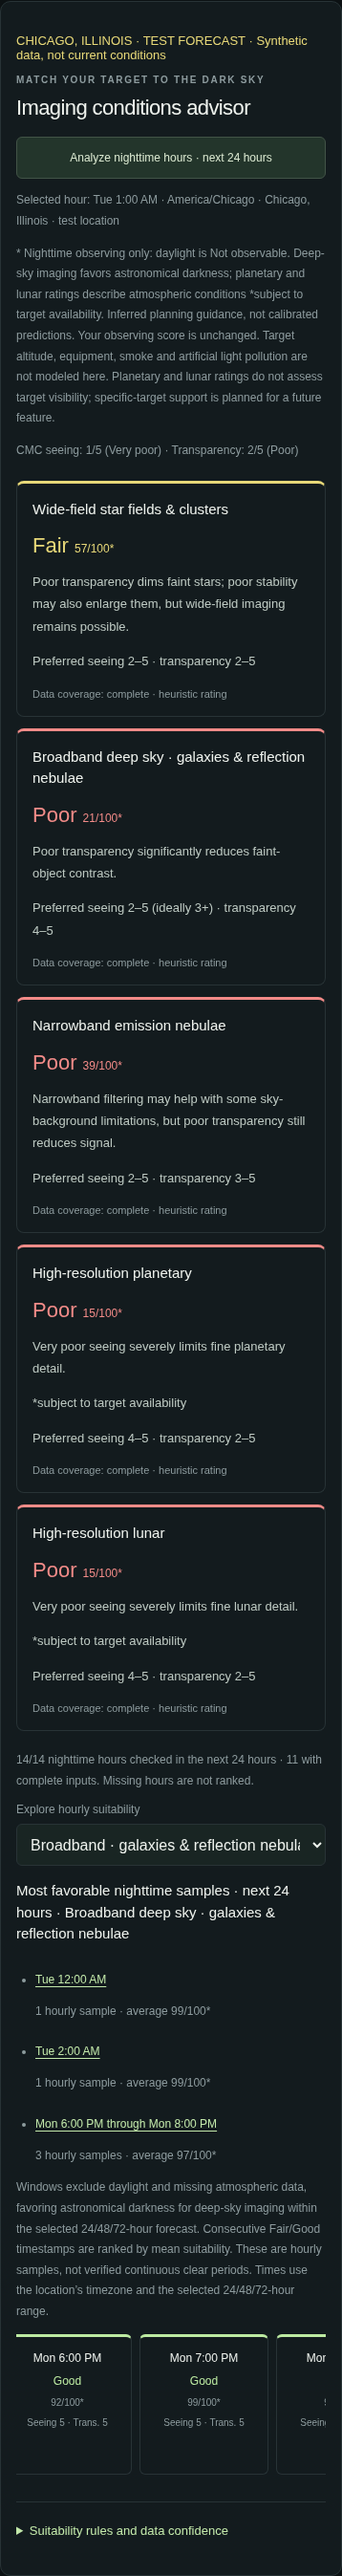
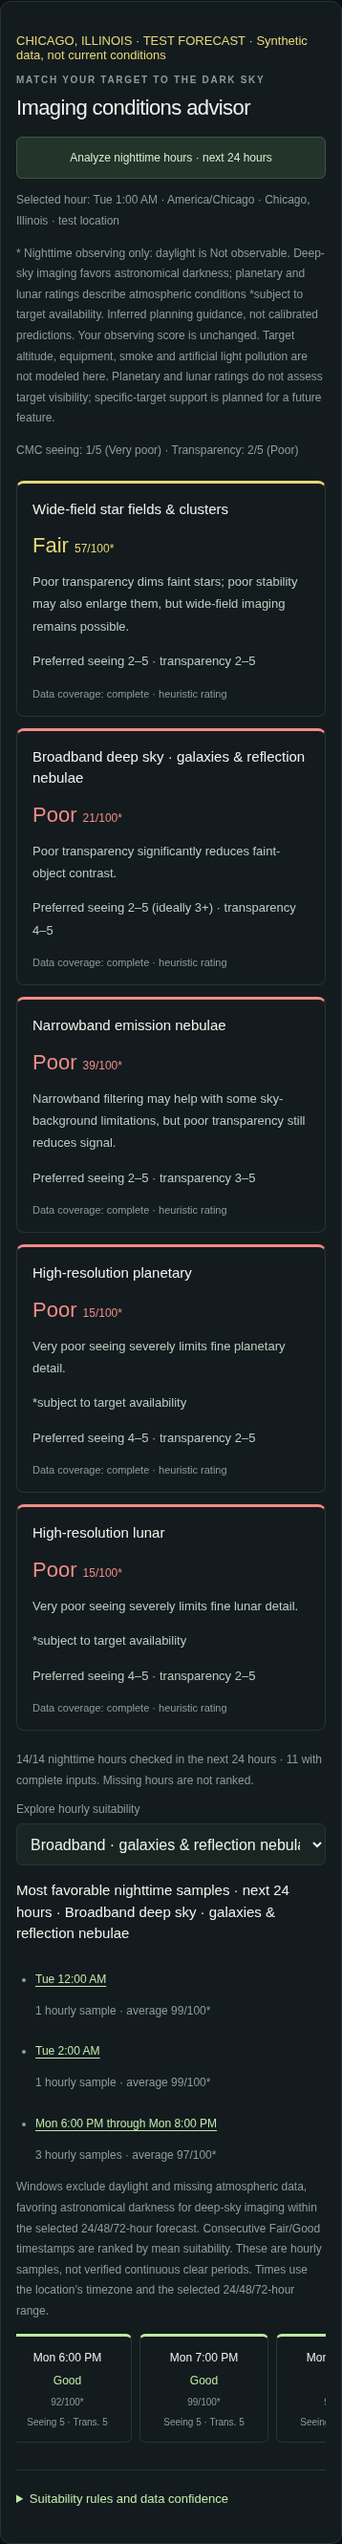
Refresh target-independent advisor review assets

diff --git a/dist/index.html b/dist/index.html
@@ -9,5 +9,5 @@
 <p id="imaging-target-note" class="imaging-note" hidden></p><h3 id="imaging-window-title">Most favorable hourly samples</h3><ul id="imaging-windows" class="imaging-windows"></ul>
 <p class="imaging-note">Windows exclude daylight and missing atmospheric data, favoring astronomical darkness for deep-sky imaging within the selected 24/48/72-hour forecast. Consecutive Fair/Good timestamps are ranked by mean suitability. These are hourly samples, not verified continuous clear periods. Times use the location’s timezone and the selected 24/48/72-hour range.</p>
 <div class="hour-scroll" tabindex="0" role="region" aria-label="Hourly imaging suitability, scroll horizontally"><div id="imaging-hours" class="imaging-hours"></div></div>
-<details class="imaging-method"><summary>Suitability rules and data confidence</summary><p>CMC indices: 0 = cloudy, 1 = very poor, 2 = poor, 3 = average/medium, 4 = good, 5 = excellent. Higher is better. Zero is not missing. Preferred ranges are soft preferences, not cutoffs. Every rating requires valid seeing, transparency, cloud cover, wind, humidity, air temperature, dew point, Sun altitude, Moon altitude and illumination. Missing or invalid inputs give null / Insufficient data; complete coverage does not imply forecast certainty.</p><p>Separate category-specific seeing and transparency curves form atmospheric suitability. Seeing/transparency weights: wide-field 25/75%, broadband and narrowband 20/80%, planetary and lunar 85/15%. Cloud, wind, dew-risk, twilight and moonlight modifiers can only reduce that result; there is no favorable baseline for poor indices. Seeing has the greatest influence on planetary and lunar detail; transparency has a stronger influence on broadband. Narrowband is more tolerant of moonlight, but not clouds or haze. Poor &lt;40, Marginal 40–54, Fair 55–69, Good ≥70. These are uncalibrated planning choices.</p><p><a href="https://github.com/flyby40/nightwatch/blob/d34159b/docs/imaging-advisor.md" target="_blank" rel="noopener">Full weighting tables, penalties and limitations ↗</a></p></details>
+<details class="imaging-method"><summary>Suitability rules and data confidence</summary><p>CMC indices: 0 = cloudy, 1 = very poor, 2 = poor, 3 = average/medium, 4 = good, 5 = excellent. Higher is better. Zero is not missing. Preferred ranges are soft preferences, not cutoffs. Every rating requires valid seeing, transparency, cloud cover, wind, humidity, air temperature, dew point, Sun altitude, Moon altitude and illumination. Missing or invalid inputs give null / Insufficient data; complete coverage does not imply forecast certainty.</p><p>Separate category-specific seeing and transparency curves form atmospheric suitability. Seeing/transparency weights: wide-field 25/75%, broadband and narrowband 20/80%, planetary and lunar 85/15%. Cloud, wind, dew-risk, twilight and moonlight modifiers can only reduce that result; there is no favorable baseline for poor indices. Seeing has the greatest influence on planetary and lunar detail; transparency has a stronger influence on broadband. Narrowband is more tolerant of moonlight, but not clouds or haze. Poor &lt;40, Marginal 40–54, Fair 55–69, Good ≥70. These are uncalibrated planning choices.</p><p><a href="https://github.com/flyby40/nightwatch/blob/9cef696/docs/imaging-advisor.md" target="_blank" rel="noopener">Full weighting tables, penalties and limitations ↗</a></p></details>
 </section><section class="panel cloud-map-panel" id="cloud-map-panel"><div class="section-heading"><div><div class="eyebrow">A LOOK ABOVE YOUR LOCATION</div><h2>Sky &amp; weather maps</h2></div><div class="map-actions"><button id="map-center" type="button">⌖ Recenter</button><button id="map-aurora-overview" type="button" hidden>Aurora overview</button><button id="map-refresh" type="button">↻ Refresh layer</button></div></div><p id="map-location" class="map-location">Map follows the selected forecast location.</p><div class="map-controls"><label>Map layer<select id="map-layer"><option value="satellite">Satellite · observed infrared</option><option value="forecast">CMC · forecast cloud cover</option><option value="wind">CMC · wind speed (mph)</option><option value="temperature">CMC · temperature (°F)</option><option value="precipitation">CMC · 1-hour precipitation (in)</option><option value="aurora">NOAA · short-term aurora forecast</option><option value="none">Location map only</option></select></label><label class="opacity-label">Overlay opacity <span id="map-opacity-value">65%</span><input type="range" id="map-opacity" min="15" max="100" step="5" value="65" aria-label="Cloud overlay opacity"></label></div><div class="cloud-map-wrap"><div id="cloud-map" role="region" aria-label="Interactive map of the selected location and cloud imagery"></div><div id="map-legend" hidden><span id="map-legend-title">CMC cloud cover (%)</span><div id="map-unit-legend" class="map-unit-legend" hidden><canvas id="map-unit-colorbar" width="24" height="220" role="img" aria-label="Provider map color gradient"></canvas><div id="map-unit-ticks"></div></div><img id="map-legend-image" alt="CMC total cloud cover percentage legend" loading="lazy"></div></div><div id="aurora-legend" class="aurora-legend" hidden><span>NOAA aurora model value · 0–100</span><div><i></i><span>Low</span><i></i><span>25</span><i></i><span>50</span><i></i><span>75–100</span></div><a href="https://www.swpc.noaa.gov/products/aurora-30-minute-forecast" target="_blank" rel="noopener">NOAA polar maps &amp; guidance ↗</a></div><div class="map-time" id="map-time">Waiting for the forecast location…</div><div id="satellite-controls" class="satellite-controls"><button type="button" id="map-play" aria-pressed="false" disabled>▶ Animate recent images</button><label>Recent frames<input type="range" id="map-frame" min="0" max="5" value="5" step="1" aria-label="Recent satellite image frame" disabled></label></div><p id="map-status" class="map-status" role="status">The map loads when it comes into view. Satellite imagery has a processing delay; forecast clouds follow the selected chart hour.</p><p id="map-basemap-status" class="map-status" role="status"></p><p class="map-help">Select a chart hour above to change CMC cloud, wind, temperature, or 1-hour precipitation forecasts. Wind and temperature map legends and the distance scale follow the unit selector. Satellite imagery and NOAA’s short-term aurora forecast show their own timestamps independently of the chart hour. Aurora visibility also needs darkness and favorable cloud conditions; the model value is not your personal chance of seeing it. Use the + / − controls or pinch to zoom. The forecast stays pinned to the marker when you browse the map.</p></section><section class="panel light-panel"><div class="section-heading"><div><div class="eyebrow">YOUR OBSERVING LOCATION</div><h2>Light pollution &amp; sky darkness</h2></div><a id="pollution-map" target="_blank" rel="noopener">View this location on the light-pollution map ↗</a></div><p id="pollution-location"></p><div class="sky-readings"><div><span>BORTLE CLASS</span><strong id="bortle">null</strong><small id="bortle-source">No local value supplied</small></div><div><span>SKY BRIGHTNESS · mag/arcsec²</span><strong id="sqm">null</strong><small id="sqm-source">No local value supplied</small></div></div><div class="bortle-scale" aria-label="Bortle classes: 1 is darkest, 9 is brightest"><span data-bortle="1">1</span><span data-bortle="2">2</span><span data-bortle="3">3</span><span data-bortle="4">4</span><span data-bortle="5">5</span><span data-bortle="6">6</span><span data-bortle="7">7</span><span data-bortle="8">8</span><span data-bortle="9">9</span></div><div class="scale-caption"><span>Darker sky</span><span>Brighter sky</span></div><p class="light-note">Automatic values, when connected, come from <a href="https://darkskysites.com" target="_blank" rel="noopener">DarkSkySites.com</a>: modeled zenith sky brightness and a provider-derived Bortle class, not live measurements. Unavailable or unscreened values remain null. Known local readings override the corresponding provider value; this app does not convert between Bortle and SQM.</p><p id="pollution-status" role="status">Checking automatic lookup…</p><details><summary>Add known readings for this location</summary><form id="sky-readings-form"><label>Bortle class (1–9)<input id="bortle-input" type="number" min="1" max="9" step="1" placeholder="Unknown"></label><label>Sky brightness (mag/arcsec²)<input id="sqm-input" type="number" min="0" max="30" step="0.01" placeholder="Unknown"></label><button type="submit">Save local readings</button><button type="button" id="clear-readings">Clear</button></form><small>Optional user-supplied readings, saved in this browser for these coordinates. Leave unknown fields blank. Enter measured SQM or a source’s modeled brightness as supplied; no value is calculated from the other.</small><p id="readings-status" role="status"></p></details></section><section class="panel dew-panel"><div class="eyebrow">EQUIPMENT CHECK · SELECTED HOUR</div><h2 id="dew-title">Dew-heater recommendation: null</h2><p id="dew-advice">Waiting for humidity and dew-point data.</p><small>Guidance uses forecast air temperature, dew point, and humidity. Optics can cool below air temperature; inspect your equipment during the session.</small></section><section class="panel highlights"><div class="eyebrow">WHAT TO LOOK FOR</div><h2>Plan your dark-hour observing</h2><p id="highlight-context">Choose a dark hour in the forecast, then use these astronomy guides to find observing highlights.</p><a id="sky-link" target="_blank" rel="noopener">Interactive sky chart for this location ↗</a><a href="https://skyandtelescope.org/observing/sky-at-a-glance/" target="_blank" rel="noopener">This week’s sky at a glance ↗</a><a href="https://www.imo.net/calendar/" target="_blank" rel="noopener">Meteor shower calendars ↗</a><small>External guides; event visibility is not supplied by this forecast. Confirm dates, local horizon, and darkness in the linked guide.</small></section><section class="bottom-grid"><article class="panel events"><div class="eyebrow">FOLLOW THE LIGHT</div><h2><span id="milestone-title">Astronomy milestones · 24 hours</span></h2><div id="events"></div></article><article class="panel field"><span class="field-icon">✺</span><div class="eyebrow">A NOTE FROM THE FIELD</div><h2>Give your eyes<br>a little time.</h2><p>Spend 20–30 minutes away from bright light. You’ll start to see a sky you didn’t know was there.</p><button id="method">How is the forecast calculated? ↗</button></article></section><footer><span class="brand">✳ nightwatch.</span><p>Made for the moments between sunset and sunrise.</p><span>Weather: <a href="https://open-meteo.com/" target="_blank" rel="noopener">Open-Meteo</a> · Astronomy: SunCalc · <a href="https://weather.gc.ca/astro/index_e.html" target="_blank" rel="noopener">Seeing/transparency: ECCC/CMC</a></span></footer></main><dialog id="info"><button id="close" aria-label="Close">×</button><h2>Forecast data and missing values</h2><p>Weather forecasts come from Open-Meteo: cloud cover, relative humidity, temperature, dew point, wind speed, and precipitation probability. Forecasts are model outputs, not measurements at your telescope.</p><p>Seeing and transparency are provider-issued CMC/ECCC RDPS indices from MSC GeoMet, loaded for the selected location and exact UTC forecast hour. They are not arcseconds or measurements at your telescope. The model grid is about 10 km and covers North America. Provider condition labels, valid time, and model run are displayed. No temporal interpolation, extrapolation, or derived conversion is used. Missing or invalid values remain null. The viewing score is inferred by Nightwatch, not supplied by CMC or Open-Meteo. For each hour, cloud component = 100 − cloud%; humidity component = 100 − max(0, RH% − 40) × 1.4; wind component = max(0, 100 − 3 × wind in km/h); moon component = 100 − illuminated percent when the Moon is above the horizon, otherwise 100. These receive weights 60%, 15%, 10%, and 15%. The total is clamped to 0–100, multiplied by 1 below −18° Sun altitude, 0.65 from −18° to below −12°, or 0.25 during the remaining twilight, then rounded. The raw heuristic returns zero in daylight, but the separate observability policy labels daytime Not observable and suppresses its numeric score. Eligible Poor ratings describe weather, not daylight. Any missing required input returns null. Viewing colors use green for “Good” ≥70, yellow for “Fair” 55–69, orange for “Marginal” 40–54, and red for “Poor” below 40. Unavailable scores stay gray. These thresholds are uncalibrated planning choices. CMC seeing and transparency and light pollution do not enter this formula. Location-specific Bortle and sky-brightness values can be supplied by DarkSkySites through a server-side proxy. These are provider model outputs and a provider-derived Bortle class, not measurements. Dataset date, fallback and quality are shown. Values with unscreened quality, including unverified-zero data, remain null. Any known local readings you saved override the corresponding provider value and are labeled user supplied. This app does not convert between SQM and Bortle. If the backend is not configured or data is unavailable, automatic values stay null. Missing weather values also remain null, with no interpolation or substitution.</p><p>Sun and Moon geometry and illumination are calculated with SunCalc. Darkness means the Sun is below −18°. Twilight crossings are calculated to one-minute resolution, not supplied as measured data.</p><p>Dew guidance is a rule, not a dew prediction: use a heater when relative humidity is at least 85% or the air/dew-point spread is at most 3°C (5.4°F). Otherwise a heater is not indicated by those thresholds; keep it available. Missing any required input makes the recommendation null. No optical surface temperature is available.</p><p>The maps use OpenStreetMap for geography and ECCC GeoMet for GOES infrared satellite imagery and CMC RDPS total cloud cover, 10m wind speed, and 2m air temperature. Wind and temperature map legend labels convert the provider’s native values to the selected unit system while preserving its color gradient and forecast values. The map distance scale follows that unit choice. Imperial is the default unless a metric preference was saved. Dew/frost badges are disclosed inferred equipment-risk indicators: humidity ≥85% or temperature/dew-point spread ≤3°C (5.4°F), with frost possible at air temperatures ≤3°C (37.4°F) and dew possible otherwise. This is a conservative screen, not a provider-issued condensation forecast or a surface-temperature measurement. No badge is rendered when the screen is negative or a required input is missing; absent badges do not establish safe or dry optics. NOAA SWPC supplies the short-term OVATION aurora grid with its observation and forecast times; it is not extended to the chart’s 24/48/72-hour horizon. Nightwatch shows the supplied 0–100 aurora values, not a personal visibility probability. Local values are taken from the nearest 1° NOAA grid cell without interpolating missing values. Satellite timestamps come from provider metadata and are not real-time measurements at the marker. CMC images use the selected exact forecast hour and pinned model run without time interpolation. Imagery may be blank outside coverage; a blank image does not establish clear conditions. The recent-image animation uses six provider timestamps, not generated intermediate frames. The 24/48/72-hour tabs include the current local calendar hour, followed by the remaining hourly periods. Each row uses its exact provider forecast timestamp in the location’s time zone; values are not interpolated. Repeated daylight-saving hours remain separate instants. Links to observing guides do not imply a verified event or visibility forecast.</p></dialog><script src="suncalc.js"></script><script src="cmc.js"></script><script src="weather-utils.js"></script><script src="viewing-score.js"></script><script src="light-pollution.js"></script><script src="vendor/leaflet/leaflet.js"></script><script src="aurora-map.js"></script><script src="cloud-map.js"></script><script src="observability.js"></script><script src="imaging-advisor.js"></script><script src="imaging-ui.js"></script><script src="forecast-time.js"></script><script src="app.js"></script></body></html>

diff --git a/dist/imaging-ui.js b/dist/imaging-ui.js
@@ -20,7 +20,7 @@ function render(state,horizon,selected,format,onSelect){
  const groups=NightwatchImaging.windows(hours,category);
  $('imaging-window-title').textContent='Most favorable nighttime samples · next '+horizon+' hours · '+NightwatchImaging.config.categories[category].label;
  $('imaging-windows').innerHTML=groups.length?groups.map(g=>'<li><button data-imaging-hour="'+g.indices[0]+'">'+escape(format(new Date(g.start)))+(g.end!==g.start?' through '+escape(format(new Date(g.end))):'')+'</button><span>'+g.scores.length+' hourly sample'+(g.scores.length===1?'':'s')+' · average '+g.average+'/100*</span></li>').join(''):'<li>No Fair or Good nighttime samples with complete data in the selected '+horizon+'-hour forecast. Analyze the forecast, or try another category or time range.</li>';
- $('imaging-hours').innerHTML=hours.length?hours.map(h=>{const r=NightwatchImaging.analyze(h).find(r=>r.id===category);return '<button class="imaging-sample imaging-'+r.band+(h.index===selected?' selected':'')+'" data-imaging-hour="'+h.index+'" aria-pressed="'+(h.index===selected)+'"><span>'+escape(format(h.date))+'</span><strong>'+r.rating+'</strong><small>'+(r.score===null?(r.eligibility.eligible===false?r.eligibility.reason:'Incomplete · '+r.eligibility.reason):r.score+'/100*')+'</small><small>Seeing '+(h.seeing??'null')+' · Trans. '+(h.transparency??'null')+'</small></button>'}).join(''):'<p class="imaging-note">No nighttime imaging periods in this forecast range.</p>';
+ $('imaging-hours').innerHTML=hours.length?hours.map(h=>{const r=NightwatchImaging.analyze(h).find(r=>r.id===category);return '<button class="imaging-sample imaging-'+r.band+(h.index===selected?' selected':'')+'" data-imaging-hour="'+h.index+'" aria-pressed="'+(h.index===selected)+'"><span>'+escape(format(h.date))+'</span><strong>'+r.rating+'</strong><small>'+(r.score===null?(r.eligibility.eligible===false?r.eligibility.reason:'Incomplete weather data'):r.score+'/100*')+'</small><small>Seeing '+(h.seeing??'null')+' · Trans. '+(h.transparency??'null')+'</small></button>'}).join(''):'<p class="imaging-note">No nighttime imaging periods in this forecast range.</p>';
 }
 $('imaging-category').onchange=e=>{category=e.target.value;if(context){const {state,horizon,selected,format,onSelect}=context;render(state,horizon,selected,format,onSelect)}};
 $('imaging-panel').addEventListener('click',e=>{const button=e.target.closest('[data-imaging-hour]');if(button&&context)context.onSelect(Number(button.dataset.imagingHour))});
